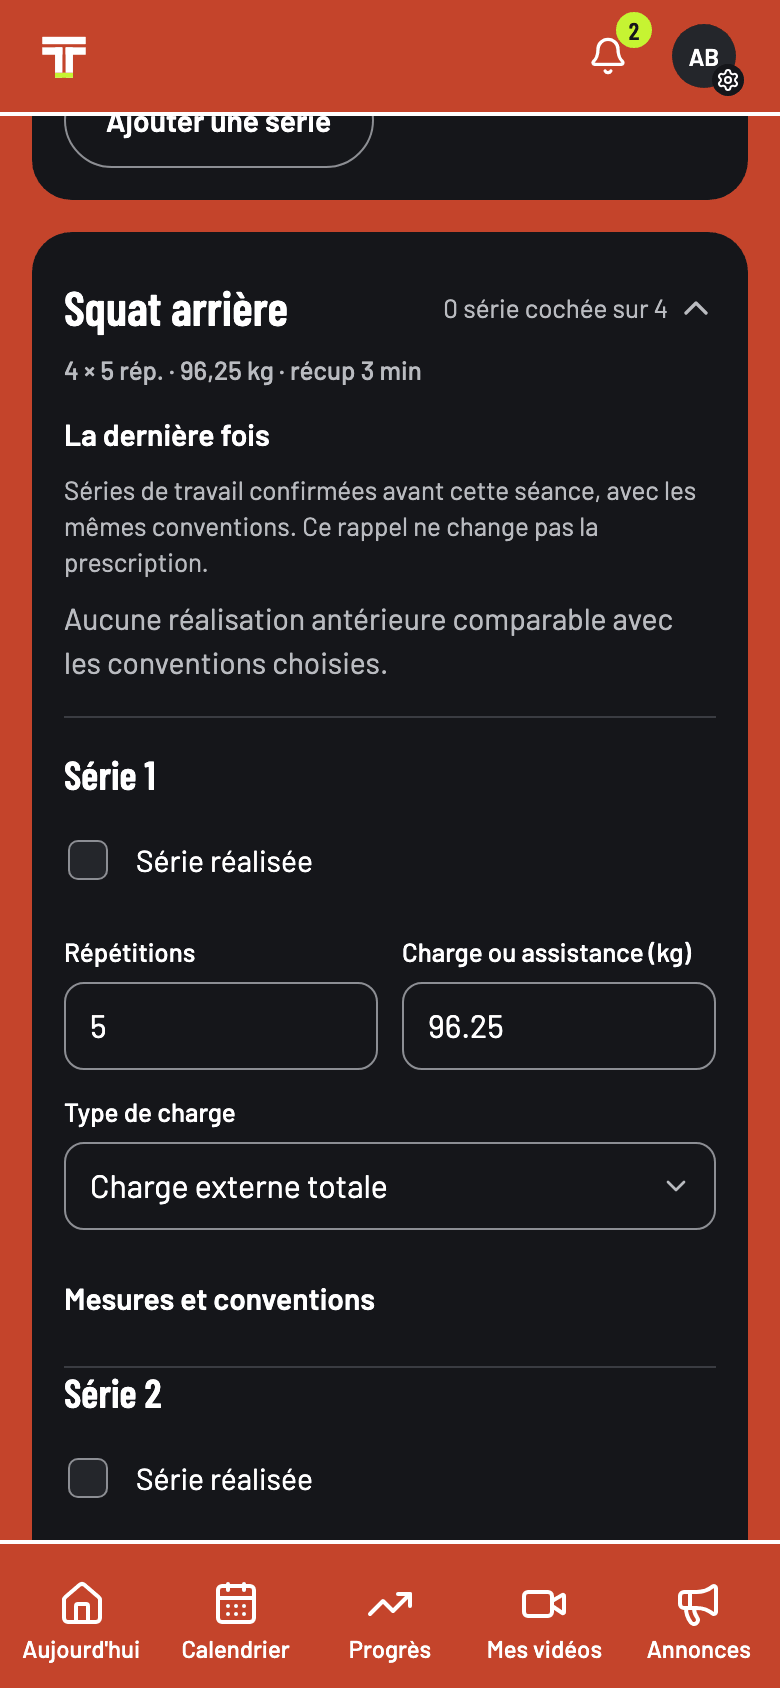
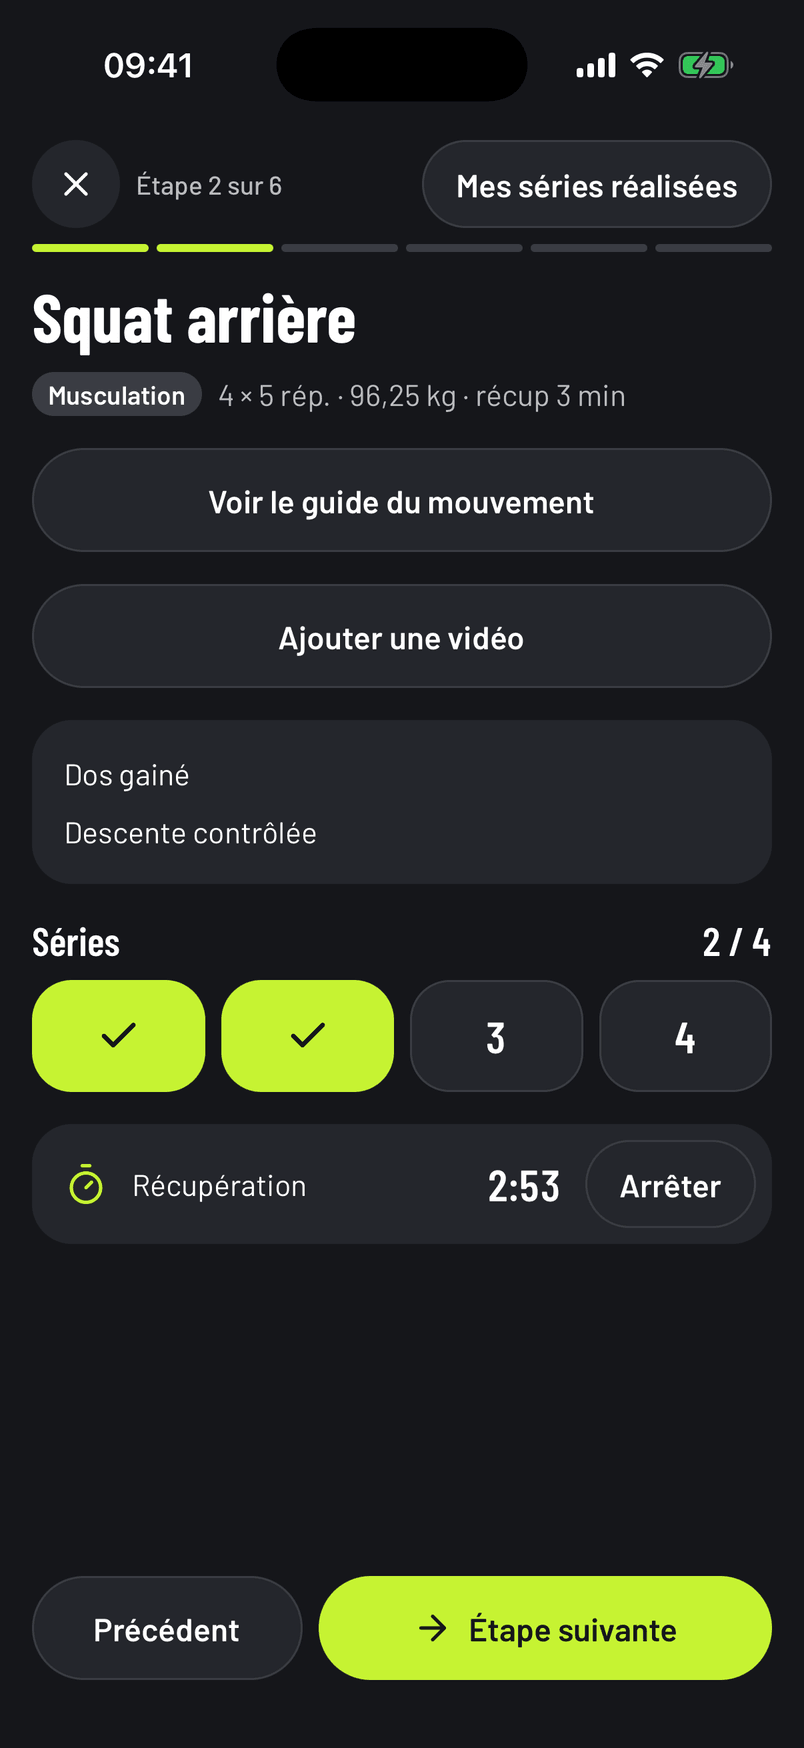
feat(web): show the native app on the athlete side of the landing

diff --git a/packages/i18n/src/fr.ts b/packages/i18n/src/fr.ts
@@ -1638,44 +1638,44 @@ export const fr = {
         journee: {
           tab: "Aujourd'hui",
           title: "Sa journée, dès l'ouverture.",
-          body: "La séance du jour en tête, le mot du coach, et la suite de la semaine juste dessous.",
-          alt: "Accueil de l'athlète sur téléphone : « Salut Alex », la semaine en pastilles, l'annonce du coach, le réveil gainage et mobilité de 7 h 30 déjà validé, le mot du coach et le programme du jour.",
+          body: "La séance du jour en tête : il la valide d'un geste, ou la démarre étape par étape. Les autres séances du jour suivent.",
+          alt: "Accueil de l'athlète dans l'app iPhone : « Salut Alex », la semaine en pastilles, la séance « Force bas du corps » de 18 h 30 avec « J'ai fait la séance », « Fait en partie » et « Démarrer la séance », puis le réveil gainage et mobilité de 7 h 30.",
         },
         semaine: {
-          tab: "À venir",
+          tab: "Calendrier",
           title: "Il voit ce qui arrive.",
-          body: "La phase de préparation en cours, puis les séances des jours à venir, en liste ou sur le mois : chacun s'organise, sans message de rappel.",
-          alt: "Calendrier de l'athlète sur téléphone, en liste : la phase « Charge », semaine 3 sur 6, le meeting régional en salle du samedi, puis les séances à venir, la première déjà faite.",
+          body: "Le mois en pastilles, une couleur par type de séance, le meeting du samedi, puis les séances du jour choisi : chacun s'organise, sans message de rappel.",
+          alt: "Calendrier de l'athlète dans l'app iPhone, vue Mois : novembre 2026, deux à trois séances par jour en pastilles de couleur, le meeting du samedi 28, puis le réveil gainage et mobilité du lundi, déjà fait.",
         },
         musculation: {
           tab: "Musculation",
           title: "Ses charges, déjà calculées.",
-          body: "Le pourcentage du coach devient une charge en kilos, d'après ses propres références. Chaque série arrive pré-remplie : il la coche, ou corrige ce qu'il a vraiment soulevé.",
-          alt: "Séries de la séance de force sur téléphone : squat arrière, 4 × 5 répétitions à 96,25 kg ; la série 1 arrive pré-remplie, 5 répétitions et 96,25 kg, à cocher ou à corriger.",
+          body: "Le pourcentage du coach devient une charge en kilos, d'après ses propres références. En séance, il coche ses séries et lance la récupération d'un geste.",
+          alt: "Mode séance dans l'app iPhone, étape 2 sur 6 : squat arrière, 4 × 5 répétitions à 96,25 kg, récupération 3 minutes ; deux séries cochées sur quatre et le minuteur de récupération lancé.",
         },
         pliometrie: {
           tab: "Pliométrie",
           title: "Les contacts comptés.",
           body: "Séries, répétitions, contacts au sol et récupération : la séance de pliométrie se suit exercice par exercice.",
-          alt: "Mode séance sur téléphone : sauts de haies basses, 5 × 6 haies, 30 contacts au sol, récupération 2 minutes, et le guide du mouvement ouvert, l'athlète dessiné au-dessus de deux haies.",
+          alt: "Mode séance dans l'app iPhone : sauts de haies basses, 5 × 6 haies, 30 contacts au sol, récupération 2 minutes, et le guide du mouvement ouvert, l'athlète dessiné au-dessus des haies.",
         },
         course: {
           tab: "Course",
           title: "Il sait ce qui l'attend.",
-          body: "Avant la séance, tout est là : les blocs, les distances, les récupérations et le mot du coach. Il dit s'il vient, puis démarre la séance.",
-          alt: "Séance « Technique de course » du mardi sur téléphone : le mot du coach, « Je viens » ou « Je ne viens pas », le bouton pour démarrer, puis les gammes avec leurs distances et leurs récupérations.",
+          body: "Gammes, distances et récupérations : la séance de course se suit étape par étape, avec le geste animé pour chaque éducatif.",
+          alt: "Mode séance dans l'app iPhone : gammes, montées de genoux, 2 × 20 m, récupération 45 secondes, et le guide du mouvement ouvert, une athlète dessinée genou haut.",
         },
         calculateur: {
           tab: "Calculateur",
           title: "Son maximum, estimé.",
           body: "Une charge et ses répétitions donnent un maximum estimé, et le tableau des pourcentages pour la prochaine séance.",
-          alt: "Calculateur de charges sur téléphone : 95 kg soulevés 6 fois donnent un maximum estimé de 114 kg, et le tableau des pourcentages commence dessous.",
+          alt: "Calculateur de charges dans l'app iPhone : la référence de 114 kg, estimée depuis 95 kg soulevés 6 fois, et le tableau des pourcentages, de 40 % à 90 %, exact et arrondi au pas de 1,25 kg.",
         },
         progres: {
           tab: "Progrès",
           title: "Ses records, sa progression.",
           body: "Performances en compétition, références de force et séries réalisées : il voit d'où il part et où il en est.",
-          alt: "Progrès de l'athlète sur téléphone : la phase de préparation en cours, 43 séances faites sur 47 ces quatre dernières semaines, puis ses performances.",
+          alt: "Progrès de l'athlète dans l'app iPhone : ses performances, 11,08 s au 100 m et 6,91 m en longueur marqués « Record perso », le 60 m de référence, puis ses tests de force, 120 kg au squat arrière.",
         },
         video: {
           tab: "Vidéo",
@@ -1687,7 +1687,7 @@ export const fr = {
           tab: "Fiche d'exercice",
           title: "Le geste à reproduire.",
           body: "Chaque exercice de la séance a sa fiche : le mouvement animé, les étapes et les erreurs à éviter.",
-          alt: "Guide du mouvement de l'épaulé ouvert dans la séance, sur téléphone : l'athlète dessiné à la mise en place, les étapes, la vue de profil ou de face, et les consignes.",
+          alt: "Guide du mouvement du squat arrière ouvert dans la séance, dans l'app iPhone : le but de l'exercice, le niveau, l'athlète dessiné en flexion et les étapes du geste.",
         },
       },
     },

diff --git a/apps/web/app/page.tsx b/apps/web/app/page.tsx
@@ -68,19 +68,20 @@ const coachScreens: ShowcaseItem[] = (
   ] as const
 ).map(([key, image]) => ({ key, image, ...t.coach.features[key] }));
 
+// Captures de l'app native, barre d'état comprise ; la vidéo vient de la web app (`images/provenance.json`).
 const athleteScreens: ShowcaseItem[] = (
   [
-    ["journee", athleteToday],
-    ["semaine", athleteWeek],
-    ["musculation", athleteStrength],
-    ["pliometrie", athletePlyo],
-    ["course", athleteRunning],
-    ["fiche", athleteExercise],
-    ["calculateur", athleteCalculator],
-    ["progres", athleteProgress],
-    ["video", athleteVideo],
+    ["journee", athleteToday, true],
+    ["semaine", athleteWeek, true],
+    ["musculation", athleteStrength, true],
+    ["pliometrie", athletePlyo, true],
+    ["course", athleteRunning, true],
+    ["fiche", athleteExercise, true],
+    ["calculateur", athleteCalculator, true],
+    ["progres", athleteProgress, true],
+    ["video", athleteVideo, false],
   ] as const
-).map(([key, image]) => ({ key, image, ...t.athlete.features[key] }));
+).map(([key, image, native]) => ({ key, image, native, ...t.athlete.features[key] }));
 
 // Réglable depuis la console : la page se recalcule au plus tard chaque minute.
 export const revalidate = 60;

diff --git a/apps/web/src/features/landing/feature-showcase.tsx b/apps/web/src/features/landing/feature-showcase.tsx
@@ -12,6 +12,8 @@ export type ShowcaseItem = {
   body: string;
   alt: string;
   image: StaticImageData;
+  // Capture du simulateur : elle porte déjà sa barre d'état, le téléphone n'en dessine pas.
+  native?: boolean;
 };
 
 // Les écrans d'un côté de l'app, un onglet par écran : la capture dans son appareil, puis ce qu'elle apporte. Sur
@@ -96,6 +98,7 @@ export const FeatureShowcase = ({
         >
           <Device
             className={cn("showcase-screen", device === "phone" && "mx-auto w-[86%] max-w-[340px] tablet:w-full")}
+            {...(device === "phone" ? { statusBar: !item.native } : {})}
           >
             <Image
               src={item.image}

diff --git a/docs/JOURNAL.md b/docs/JOURNAL.md
@@ -9,7 +9,8 @@ Modèle :
 Fait : PR `feat/landing-ouverture`, à la demande du fondateur. Film réduit au saut en hauteur (`jump-film-pose.ts` : `FILM.start/plant/flight/impact/finish`, les promesses suivent l'élan, l'appel et le franchissement ; haies, perche, relais et leurs accessoires retirés, test `jump-film-script.test.ts`). Bande du groupe (`group-band.tsx`, `t.group`) retirée ; `discipline-athlete.ts` gardé, la carte de record s'en sert. « Capture fictive », « Rejoindre le pilote » et « (bêta) » retirés (titre et pastille du planificateur, web et natif, ligne des CGV) ; inscriptions fermées : le bouton dit « Nous écrire ». Mot « Tartan » à T de la marque : `scripts/build-logo.mjs` produit `wordmark-letters.svg` et `wordmark-line.svg`, `.wordmark` les peint en masques (citron sur la piste, une couleur sur fond clair). Deux sections d'onglets (`feature-showcase.tsx`, cadres `device-frame.tsx` en CSS) : 11 écrans du coach, 9 de l'athlète, 20 captures neuves sur `demo:preparation` enrichi (deux groupes, réveil musculaire le matin, vitesse à midi, séances du soir, un meeting le samedi, validations du matin déjà faites, références de force et références de travail par athlète, charges en % du max, séries de travail, performances et records, favoris, quatre vidéos, accord IA du coach). « Séries réalisées : 0 » sur `/analyse` venait du jeu de données : ses séries n'avaient pas les valeurs du contrat `detailedSetInput` (`loadKind: "external"`, `repetitionScope`, `sideCount`), l'analyse les écartait.
 Vérifié : types, lint, tests, design ; parcours `landing`, `pilot`, `ai-planner`, `screen-matrix` sur build de production ; rendu regardé à 390, 768 et 1440 px. Non vérifié : app native sur simulateur (build Release fait deux fois, installé et ouvert sur un simulateur dédié ; l'accès au simulateur, demandé à trois reprises, n'a pas été accordé, et Maestro n'est pas installé sur le poste : sans saisie ni toucher, la connexion par mot de passe est impossible ; les écrans de l'athlète sont ceux de la web app à 390 px, ce que dit `provenance.json`) ; lecteurs d'écran ; Safari.
 À savoir : `e2e/landing-captures.spec.ts` refait toutes les captures (mode d'emploi en tête ; jamais en CI). Le clip de l'analyse vidéo est le geste animé de la fiche « Accélérations », filmé par le test « clip » ; les vidéos ne se capturent que sur le serveur de développement (`VIDEO_DEV_MP4_URL`). Le planificateur est capturé avant l'envoi : sa réponse viendrait du prestataire simulé. Le build natif Release pointé sur un serveur local se fait sans EAS : `expo prebuild`, `pod install` (avec `LC_ALL=en_US.UTF-8`), `xcodebuild -sdk iphonesimulator` ; la connexion passe par `tartan-dev://callback?cookie=…`, mais iOS demande alors de confirmer l'ouverture, d'où le besoin de piloter le simulateur.
-Suite : reprendre les 9 écrans de l'athlète sur l'app native quand le simulateur est accessible ; essai du planificateur par le fondateur.
+Reprise (même jour, session principale) : 8 des 9 écrans de l'athlète repris sur l'app native, simulateur iPhone 17 Pro, build de développement servi par Metro et connecté à un serveur local (base `tartan_capture_natif`, connexion par mot de passe) ; le téléphone de la page ne dessine pas de barre d'état pour ces captures (`native`). La vidéo reste la capture web : la vidéo de démonstration ne se lit pas sur l'app native sans Mux. L'app de développement installée n'a pas `ExpoSharing` ni `expo-audio` : deux remplacements locaux, non commités, le temps des captures.
+Suite : essai du planificateur par le fondateur.
 
 ## 2026-11-23, Claude Opus 5.5, inscriptions des athlètes autonomes fermées par défaut
 Fait : PR `fix/inscriptions-athletes-fermees`. Nouvelle variable `ATHLETE_SIGNUP_MODE` (défaut `closed`) ; le défaut du contrat `platformSettingsInput.athleteSignupMode` passe à `closed` ; `platformSettings()` ne laisse plus un défaut du contrat remplacer l'environnement (seules les clés présentes dans `platform_settings` comptent). Vitest, Playwright et la CI mobile ouvrent les deux inscriptions par l'environnement.

diff --git a/docs/ETAT.md b/docs/ETAT.md
@@ -46,7 +46,7 @@ Niveaux : **codé**, **testé** automatiquement, **éprouvé** en production ou 
 | Jeu public retiré (demande du fondateur, 23 novembre) : `/jeu` redirige vers l'accueil, `packages/game`, son classement, sa modération et son réglage supprimés (107 fichiers, 6 193 lignes) ; tables `game_*` gardées, vides | PR `chore/finitions-et-jeu` | Testé (`landing`, `mascot-board`, `screen-matrix`, `admin-console`, redirection 308) | Opus |
 | Inscriptions des athlètes autonomes fermées par défaut (`ATHLETE_SIGNUP_MODE`, défaut `closed`) : elles s'ouvraient seules en production ; seules les clés enregistrées en base remplacent désormais l'environnement | PR `fix/inscriptions-athletes-fermees` | Testé (service et environnement) | Opus |
 | Athlète autonome, web (décision du 23 novembre, plan `docs/plans/athlete-autonome.md`) : aiguillage à l'inscription (coach, seul, lien d'invitation), espace personnel gratuit (offre `personal` : 5 propositions IA, 10 min de dictée, 4 vidéos par mois), planification pour soi sans destinataires, premiers pas et 4 e-mails propres, partage facultatif et révocable de l'historique avec un coach (santé exclue), correctifs des impasses d'un compte sans espace, réglage « Inscriptions des athlètes autonomes » | PR `feat/athlete-autonome-pr` | Testé (web 2 507, domaine 514 ; 4 parcours neufs de bout en bout sur build de production) ; textes juridiques à relire par le fondateur ; app native au lot AA3 | Opus |
-| Page d'accueil de l'ouverture (demande du fondateur, 23 novembre) : film réduit au saut en hauteur, bande des six athlètes retirée, plus aucune mention de pilote, de bêta ni de capture fictive (planificateur et CGV compris), mot « Tartan » dont le T est la marque dans l'en-tête du site, deux sections d'onglets (11 écrans du coach dans un ordinateur, 9 de l'athlète dans un téléphone, cadres dessinés en CSS), 20 captures neuves et rejouables (`e2e/landing-captures.spec.ts`) sur un jeu de démonstration rempli (deux groupes, jusqu'à trois séances par jour, un meeting, séries saisies qui nourrissent l'analyse) | PR `feat/landing-ouverture` | Testé (types, lint, tests, design, parcours `landing`, `pilot`, `ai-planner`, `screen-matrix` sur build de production) ; écrans de l'athlète pris sur la web app à 390 px : l'app native est construite et installée sur un simulateur, mais l'accès au simulateur n'a pas été accordé pendant le lot | Opus |
+| Page d'accueil de l'ouverture (demande du fondateur, 23 novembre) : film réduit au saut en hauteur, bande des six athlètes retirée, plus aucune mention de pilote, de bêta ni de capture fictive (planificateur et CGV compris), mot « Tartan » dont le T est la marque dans l'en-tête du site, deux sections d'onglets (11 écrans du coach dans un ordinateur, 9 de l'athlète dans un téléphone, dont 8 prises sur l'app native au simulateur iPhone, cadres dessinés en CSS), 20 captures neuves et rejouables (`e2e/landing-captures.spec.ts`) sur un jeu de démonstration rempli (deux groupes, jusqu'à trois séances par jour, un meeting, séries saisies qui nourrissent l'analyse) | PR `feat/landing-ouverture` | Testé (types, lint, tests, design, parcours `landing`, `pilot`, `ai-planner`, `screen-matrix` sur build de production) ; écrans de l'athlète pris sur la web app à 390 px : l'app native est construite et installée sur un simulateur, mais l'accès au simulateur n'a pas été accordé pendant le lot | Opus |
 
 ### En cours
 
